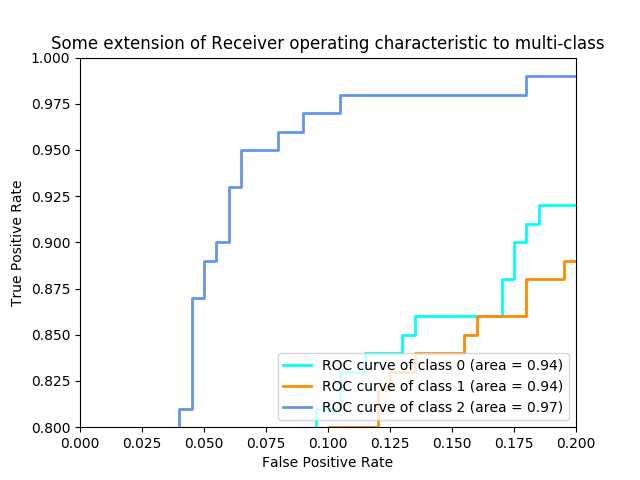
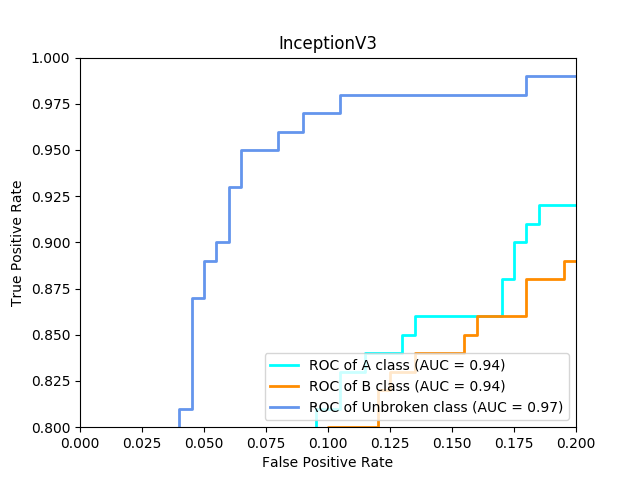
roc computed

diff --git a/TransferLearning/ROCCurve.py b/TransferLearning/ROCCurve.py
@@ -170,15 +170,15 @@ plt.plot(fpr["macro"], tpr["macro"],
 colors = cycle(['aqua', 'darkorange', 'cornflowerblue'])
 for i, color in zip(range(n_classes), colors):
     plt.plot(fpr[i], tpr[i], color=color, lw=lw,
-             label='ROC curve of class {0} (area = {1:0.2f})'
-             ''.format(i, roc_auc[i]))
+             label='ROC of {0} class (AUC = {1:0.2f})'
+             ''.format(categories[i], roc_auc[i]))
 
 plt.plot([0, 1], [0, 1], 'k--', lw=lw)
 plt.xlim([0.0, 1.0])
 plt.ylim([0.0, 1.05])
 plt.xlabel('False Positive Rate')
 plt.ylabel('True Positive Rate')
-plt.title('Some extension of Receiver operating characteristic to multi-class')
+plt.title('InceptionV3')
 plt.legend(loc="lower right")
 
 if run_on_server == 'n':
@@ -205,13 +205,13 @@ plt.plot(fpr["macro"], tpr["macro"],
 colors = cycle(['aqua', 'darkorange', 'cornflowerblue'])
 for i, color in zip(range(n_classes), colors):
     plt.plot(fpr[i], tpr[i], color=color, lw=lw,
-             label='ROC curve of class {0} (area = {1:0.2f})'
-             ''.format(i, roc_auc[i]))
+             label='ROC of {0} class (AUC = {1:0.2f})'
+             ''.format(categories[i], roc_auc[i]))
 
 plt.plot([0, 1], [0, 1], 'k--', lw=lw)
 plt.xlabel('False Positive Rate')
 plt.ylabel('True Positive Rate')
-plt.title('Some extension of Receiver operating characteristic to multi-class')
+plt.title('InceptionV3')
 plt.legend(loc="lower right")
 
 if run_on_server == 'n':
